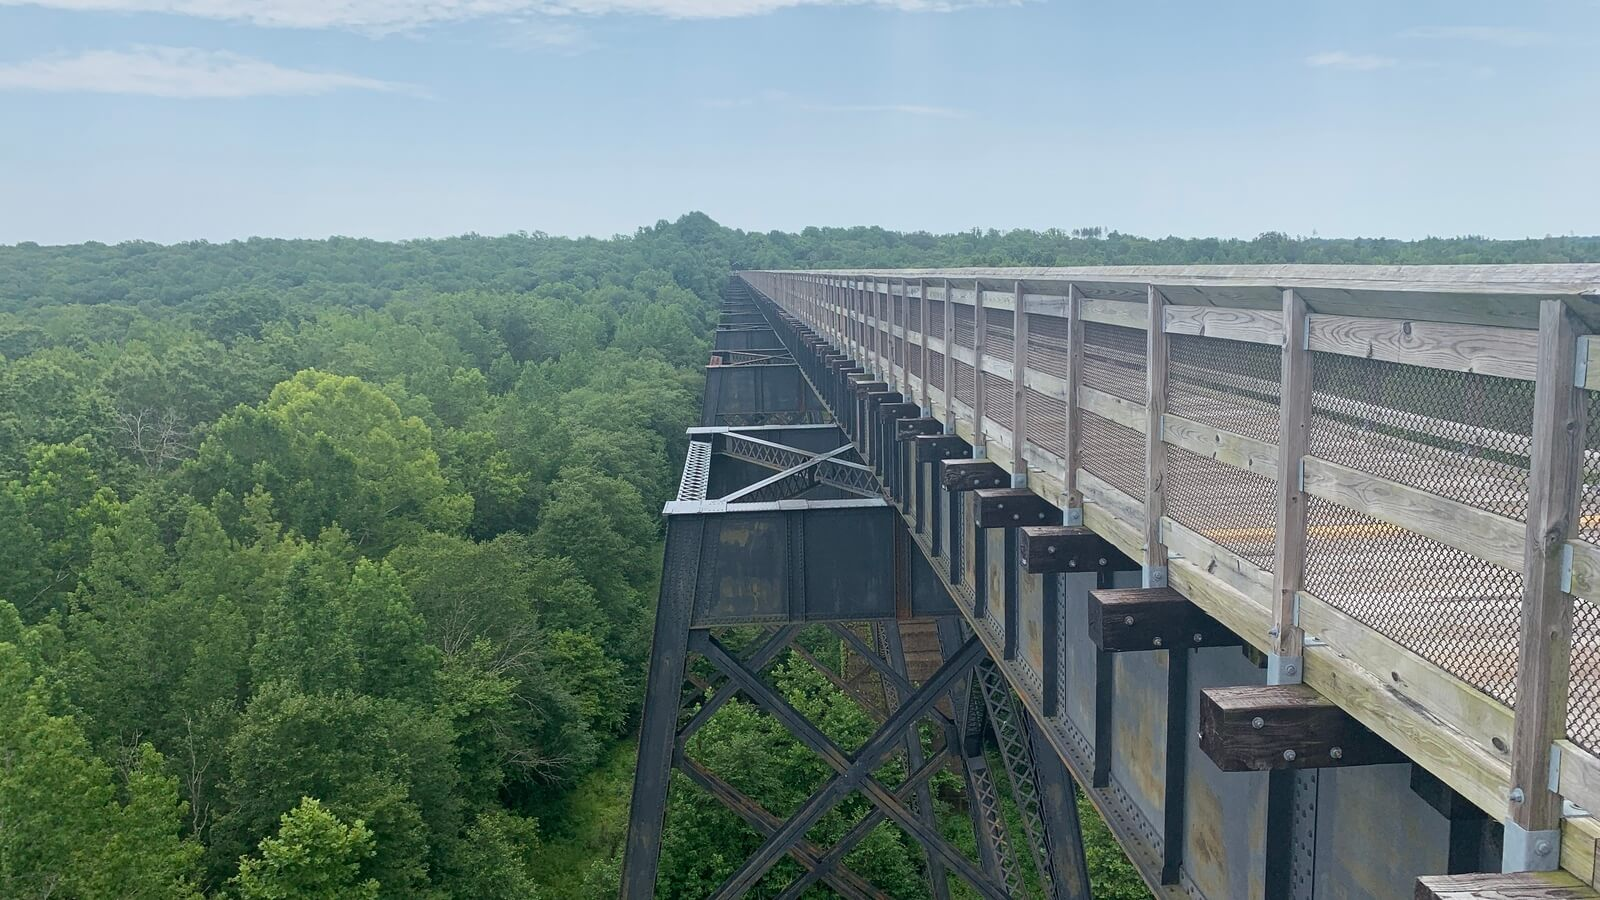
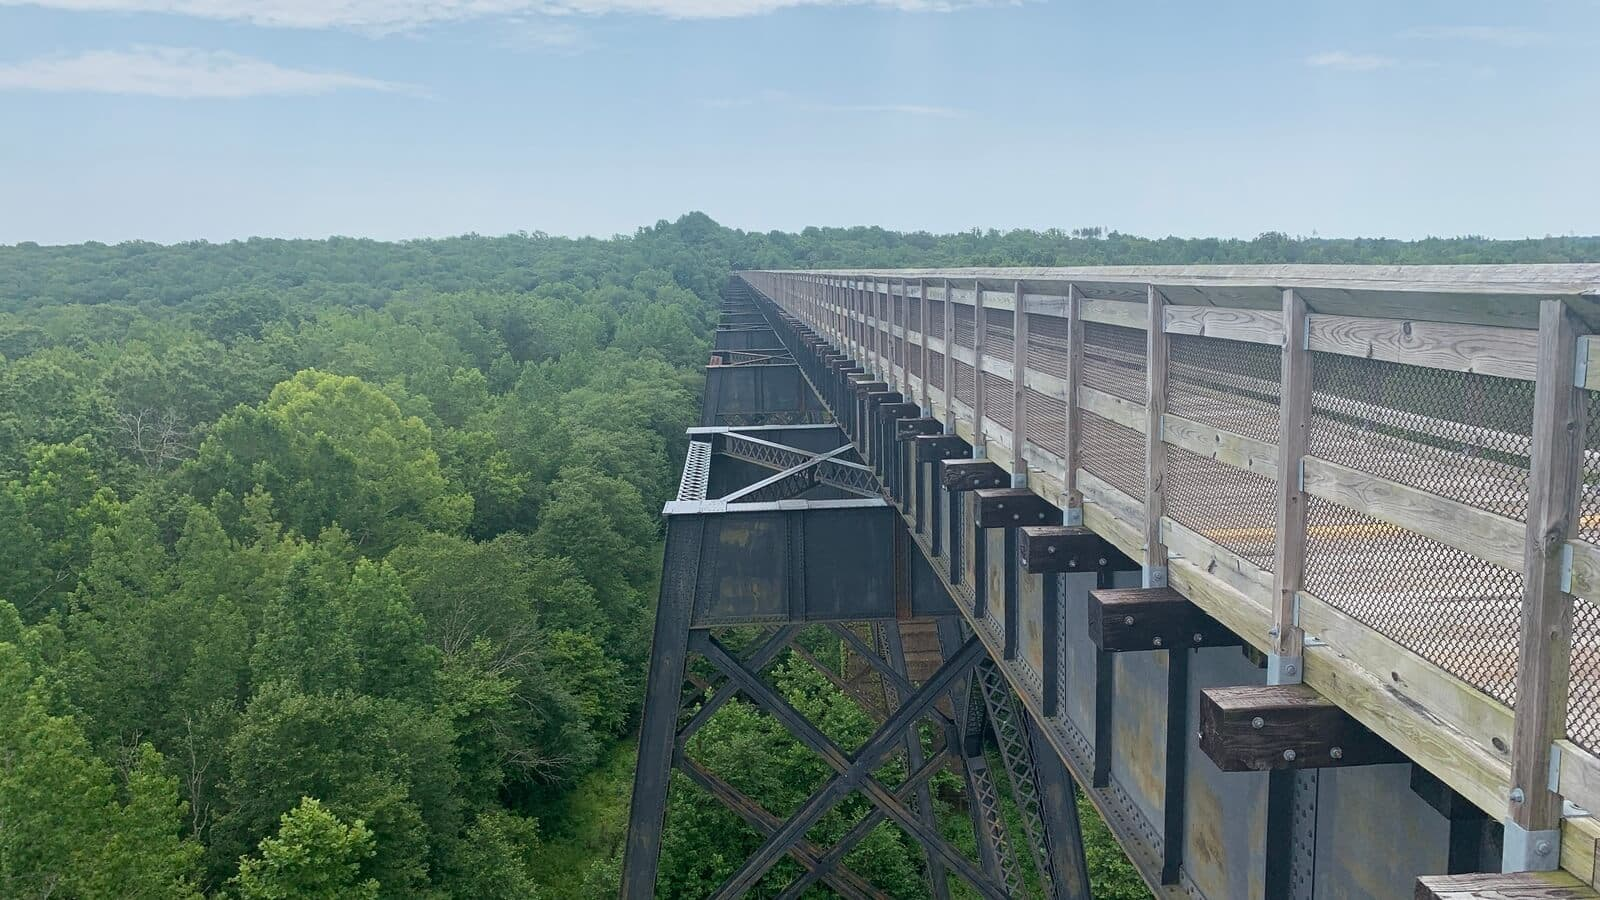
Optimizing some images

diff --git a/_posts/2016-11-22-sbt-exclude-slf4j-transitive-dependency.md b/_posts/2016-11-22-sbt-exclude-slf4j-transitive-dependency.md
@@ -4,7 +4,7 @@ date: "2016-11-22"
 categories: 
   - "Programming#Scala"
 description: "Clean up unit test output by removing the SLF4J refernence from all dependencies and then adding them back selectively."
-featured_image: '/images/archive/sbt-after.png'
+featured_image: '/images/archive/sbt-after.jpg'
 ---
 
 ![](/images/archive/sbt-after.png)
@@ -71,8 +71,8 @@ Next we add the SLF4J dependencies back - but this time we indicate that in test
 
 And now our unit tests which used to look like this:
 
-![Before the NOP logger and SLF4J logging change](/images/archive/sbt-before.png)
+![Before the NOP logger and SLF4J logging change](/images/archive/sbt-before.jpg)
 
 Now look like this:
 
-![After the NOP logger and SLF4J logging change](/images/archive/sbt-after.png)
+![After the NOP logger and SLF4J logging change](/images/archive/sbt-after.jpg)

diff --git a/_posts/2012-08-06-so-the-running-is-paying-off.md b/_posts/2012-08-06-so-the-running-is-paying-off.md
@@ -7,4 +7,4 @@ tags:
 
 I've been eating better and working out. I won't get into the details - but here's the current progress...
 
-[![](images/contrast.png "contrast")](http://www.roberthorvick.com/2012/08/06/so-the-running-is-paying-off/contrast/)
+[![](images/contrast.jpg "contrast")](http://www.roberthorvick.com/2012/08/06/so-the-running-is-paying-off/contrast/)
